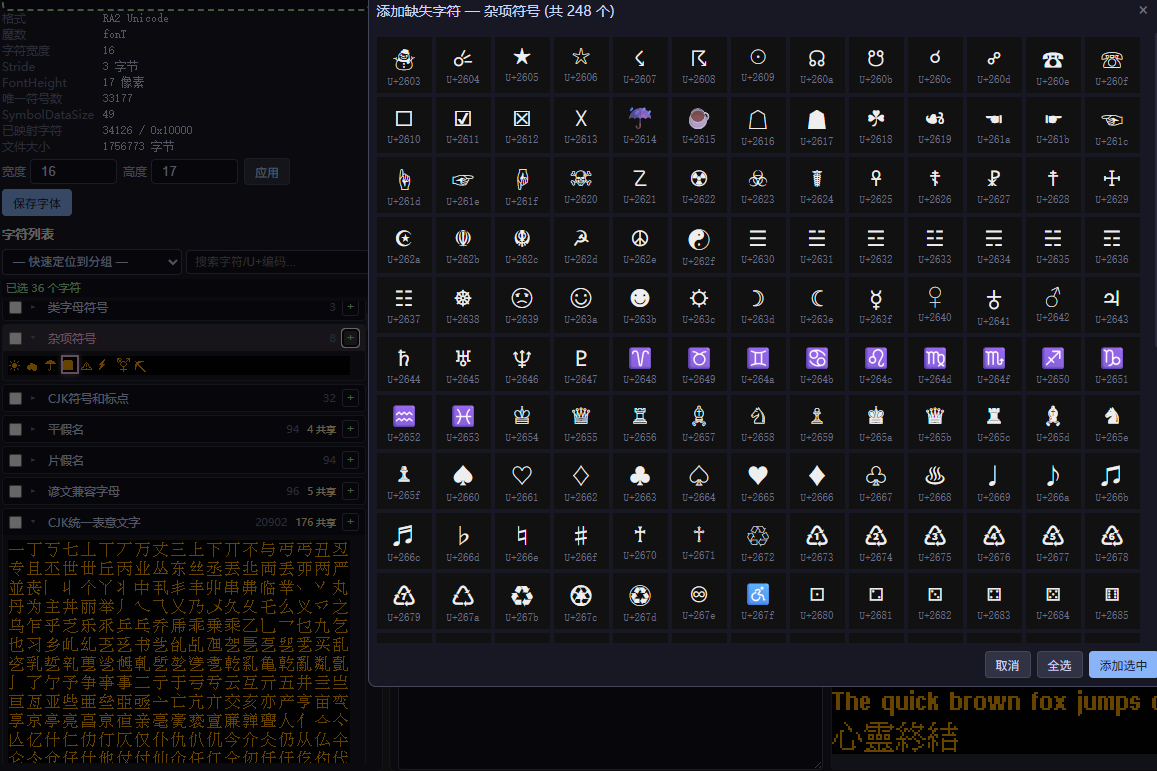
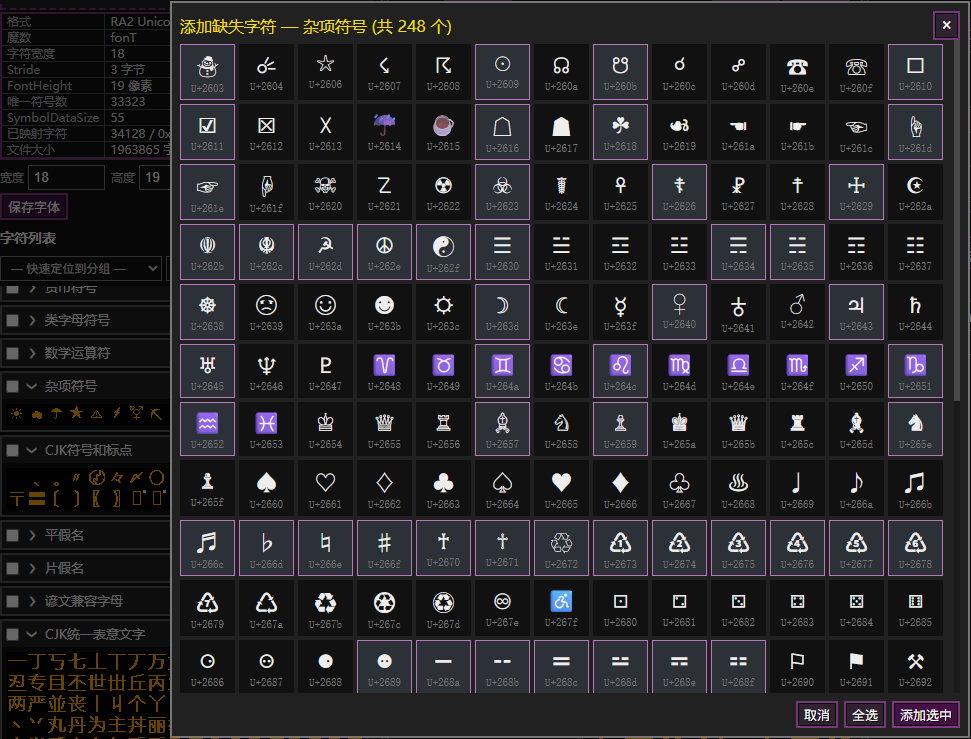
补充说明信息

diff --git a/创建压缩包.py b/创建压缩包.py
@@ -1,0 +1,118 @@
+#!/usr/bin/env python3
+import subprocess
+import os
+import sys
+import zipfile
+from datetime import datetime
+
+# 创建压缩包，并忽略git信息和git忽略的文件和自身
+# 由 gemma4 26BA4B 修复打包对汉字支持问题。
+
+# 配置参数 (Configuration)
+# 1. 压缩包文件名前缀
+# 默认：使用当前文件夹的名字 + 时间戳 (例如: my_project_20231027_103000.zip)
+# 如果你希望固定文件名，可以将其改为字符串，例如: ARCHIVE_PREFIX = "backup"
+ARCHIVE_PREFIX = "ra2字体编辑器1.x" 
+
+# 2. 压缩等级 0 - 9
+# 0 : 仅存储 (Stored)，不进行压缩，速度最快，文件体积最大。
+# 1 : 压缩速度最快，但压缩率最低（文件体积相对较大）。
+# 6 : 默认平衡值，在压缩速度和文件体积之间取得较好的平衡。
+# 9 : 压缩率最高，但压缩过程最慢，且消耗 CPU 资源较多。
+COMPRESSION_LEVEL = 6
+
+def get_files_to_compress():
+    """
+    使用 git ls-files -z 获取文件列表，彻底解决汉字乱码问题。
+    """
+    try:
+        # 使用 -z 参数，用 NUL (\0) 分隔文件名，避免编码转换导致路径解析失败
+        result = subprocess.run(
+            ['git', 'ls-files', '-z', '-c', '-o', '--exclude-standard', '.'],
+            capture_output=True,
+            check=True
+        )
+        
+        raw_stdout = result.stdout
+        # 按 NUL 字节切割
+        file_names_bytes = raw_stdout.split(b'\0')
+        
+        files = []
+        current_script = os.path.abspath(__file__)
+
+        for name_bytes in file_names_bytes:
+            if not name_bytes:
+                continue
+            
+            try:
+                # 强制使用 utf-8 解码 Git 的输出
+                file_rel_path = name_bytes.decode('utf-8').strip().replace('\\', '/')
+            except UnicodeDecodeError:
+                print(f"警告：无法解码文件名字节流，跳过该文件。", file=sys.stderr)
+                continue
+
+            # 过滤逻辑
+            if file_rel_path == '.gitignore':
+                continue
+            if os.path.abspath(file_rel_path) == current_script:
+                continue
+            if file_rel_path.startswith('.'):
+                continue
+
+            files.append(file_rel_path)
+            
+        return files
+    except subprocess.CalledProcessError:
+        print("错误：当前目录不是 Git 仓库，无法应用 .gitignore 规则。", file=sys.stderr)
+        sys.exit(1)
+    except Exception as e:
+        print(f"获取文件列表时出错: {e}", file=sys.stderr)
+        sys.exit(1)
+
+def main():
+    # 计算文件名
+    timestamp = datetime.now().strftime('%Y%m%d_%H%M%S')
+    if ARCHIVE_PREFIX:
+        archive_name = f"{ARCHIVE_PREFIX}_{timestamp}.zip"
+    else:
+        dir_name = os.path.basename(os.path.abspath(os.getcwd()))
+        archive_name = f"{dir_name}_{timestamp}.zip"
+
+    files = get_files_to_compress()
+    if not files:
+        print("没有需要压缩的文件。")
+        return
+
+    print(f"配置信息：")
+    print(f"  - 压缩等级: {COMPRESSION_LEVEL}")
+    print(f"  - 目标文件: {archive_name}")
+    print(f"  - 文件数量: {len(files)}")
+    print("-" * 30)
+
+    try:
+        # 使用 compresslevel 参数设置压缩等级 (Python 3.7+)
+        # ZIP_DEFLATED 是标准压缩算法
+        with zipfile.ZipFile(
+            archive_name, 
+            'w', 
+            zipfile.ZIP_DEFLATED, 
+            compresslevel=COMPRESSION_LEVEL
+        ) as zf:
+            for rel_path in files:
+                abs_path = os.path.abspath(rel_path)
+                
+                if not os.path.exists(abs_path):
+                    print(f"警告：文件不存在: {abs_path}", file=sys.stderr)
+                    continue
+
+                # 写入压缩包，arcname 使用相对路径，保证解压后目录结构正确
+                zf.write(abs_path, rel_path)
+                
+        print(f"\n成功！压缩包已生成: {os.path.abspath(archive_name)}")
+
+    except Exception as e:
+        print(f"\n压缩过程中发生错误: {e}", file=sys.stderr)
+        sys.exit(1)
+
+if __name__ == '__main__':
+    main()

diff --git a/readme.md b/readme.md
@@ -1,23 +1,24 @@
 ## RA2字体编辑器
-Red Alert 2 font editor.
+Red Alert 2 font editor. 
 适用于红色警戒2的字体编辑器，现在已添加中英语言切换支持！
 
 ![alt text](other/base1.png)
 
 ## 主要功能  
-将系统字体或加载的字体转为ra2格式字体,使用当前字符范围。  
-缺失的字符直接选中即可添加。  
-手动编辑任意符号，并有辅助线便于定位。  
-可以快速定位字符位置。  
+将系统字体或加载的字体转为ra2格式字体,使用当前加载的字符范围。  
+缺失的字符直接批量选中即可添加。  
+手动编辑任意符号，并有辅助线便于对齐定位。  
+可通过搜索快速定位字符位置。  
 批量调整符号宽度和居中，可用于制作等宽字体。  
-批量位置编辑，以及拼接不同字体。  
-分离共用数据的占位字符。  
-预览字体。  
-简繁转换。  
+通过使用不同字体的字符在游戏中获得最佳显示。  
+分离共用数据的字符占位字符。  
+预览字体显示效果。  
+简繁转换简化输入。  
 
 ## 使用
 双击打开 `FontEditor.html` 即可。  
-在左上角加载游戏字体，在`fnt`文件夹内提供了几个字体文件，或者从游戏目录中寻找 `game.fnt` 。  
+点击左上角**加载区**或从**外部拖放游戏字体**，在`fnt`文件夹内提供了几个字体文件，或者从游戏目录中寻找 `game.fnt` 。  
+加载后点击具体的字符，然后在中间编辑区域查看或修改字符。
 在右边栏选择**系统字体**或**拖放外部字体**。  
 | ![alt text](other/qxzt.png)              |
 | ------------------------------------------ |
@@ -25,24 +26,23 @@ Red Alert 2 font editor.
 
 你可以一键转换全部字符为指定字体。  
 如果你想修改部分字符为指定字体，需要在左侧选中字符。
- - 你可以勾选复选框或shift/ctrl+鼠标框选进行批量选择
+ - 你可以勾选复选框或shift/ctrl+鼠标框选进行批量选择或取消
  - 你可以批量设置宽度或居中，这可用于制作等宽字体
  - 你可以在左侧搜索，可以通过简繁转换输入简体搜索对应繁体
 
 如果你想修改字符宽度需要在右侧符号参数中修改。  
 相关文档中说每个字符限制256个像素，即16x16或15x17,因此不建议修改字体整体的宽高。  
 
-但实际上看起来可以适量超过，比如17x17，20x20，字符过大时会有闪烁或显示不完整现象，我不知道更大的代价是什么。  
- - 受字体不同实现等原因，你可以选比15大一点的字体，但宽度仍然在15内。  
- - 这是20x20的黑体：  
+但实际上看起来可以适量超过，比如17x17，20x20，字符过大是会造成显示不全，数字字符过大时会造成资金闪烁或显示不完整，如果你希望使用更大的字体，则注意需要调整下数字的位置。
+ - 受字体和不同实现等原因，你可以选比15大一些的字体，但宽度仍然在15内，默认的16是比较通用的大小。  
+ - 这是20的黑体：  
 ![alt text](other/nn3.png)
 
-由于一次性加载数万字符，因此卡一下是正常的。  
-在大量生成字符时，卡的久一点也是正常的。  
-卡多久与电脑配置有关，耐心等待几秒到几十秒。  
+由于一次性加载或处理数万字符，因此有时卡一下是正常的。  
+在大量生成字符时需要时间较久，可以通过进度条查看进度或取消。  
 
 ## 功能展示
-添加字符  
+添加字符，左键拖动多选，右键拖动取消  
 <img width="80%" src="other/adf.png">  
 
 添加不存在符号,搜不到情况下可以添加黑图,稍后生成。  
@@ -65,4 +65,5 @@ Red Alert 2 font editor.
 
 ## 格式和编辑实现参考:  
 [Westwood BitFont Format](https://moddingwiki.shikadi.net/wiki/Westwood_BitFont_Format)  
+(注意信息并不完全正确，关于信息更正在[Westwood_BitFont_Format.md](Westwood_BitFont_Format.md)中记录)  
 [Nyerguds/WWFontEditor](https://github.com/Nyerguds/WWFontEditor)
